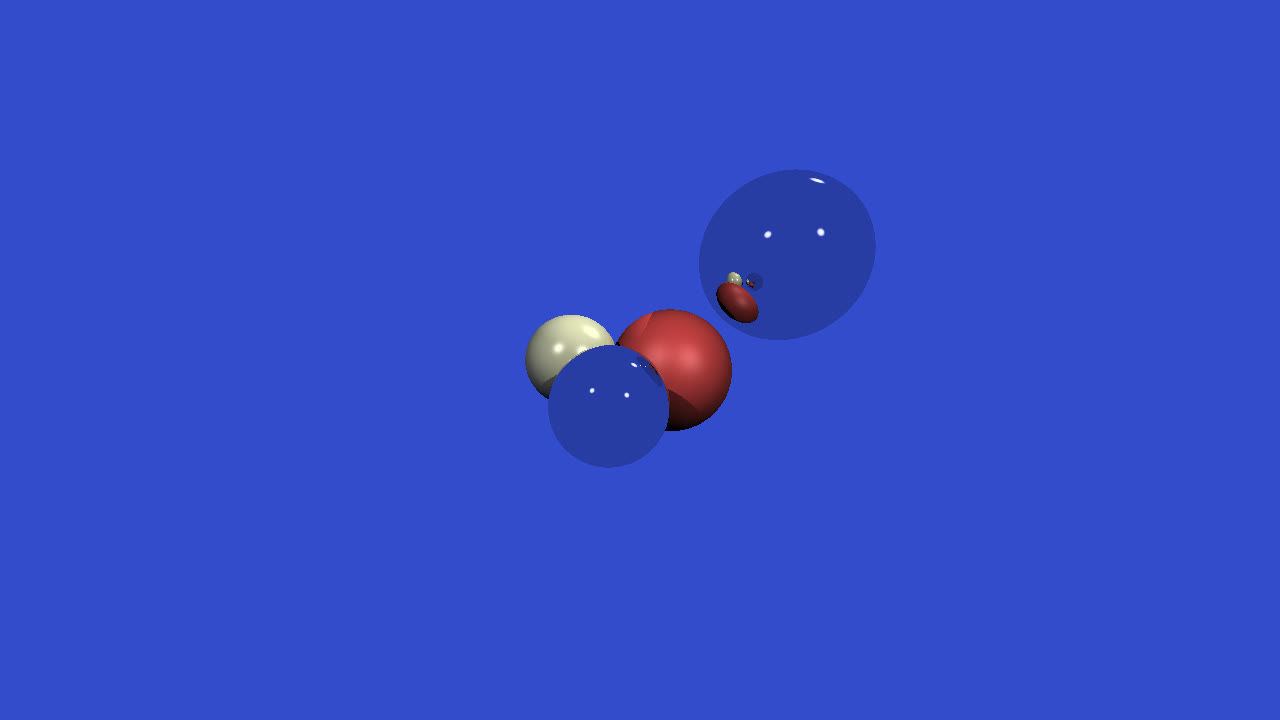
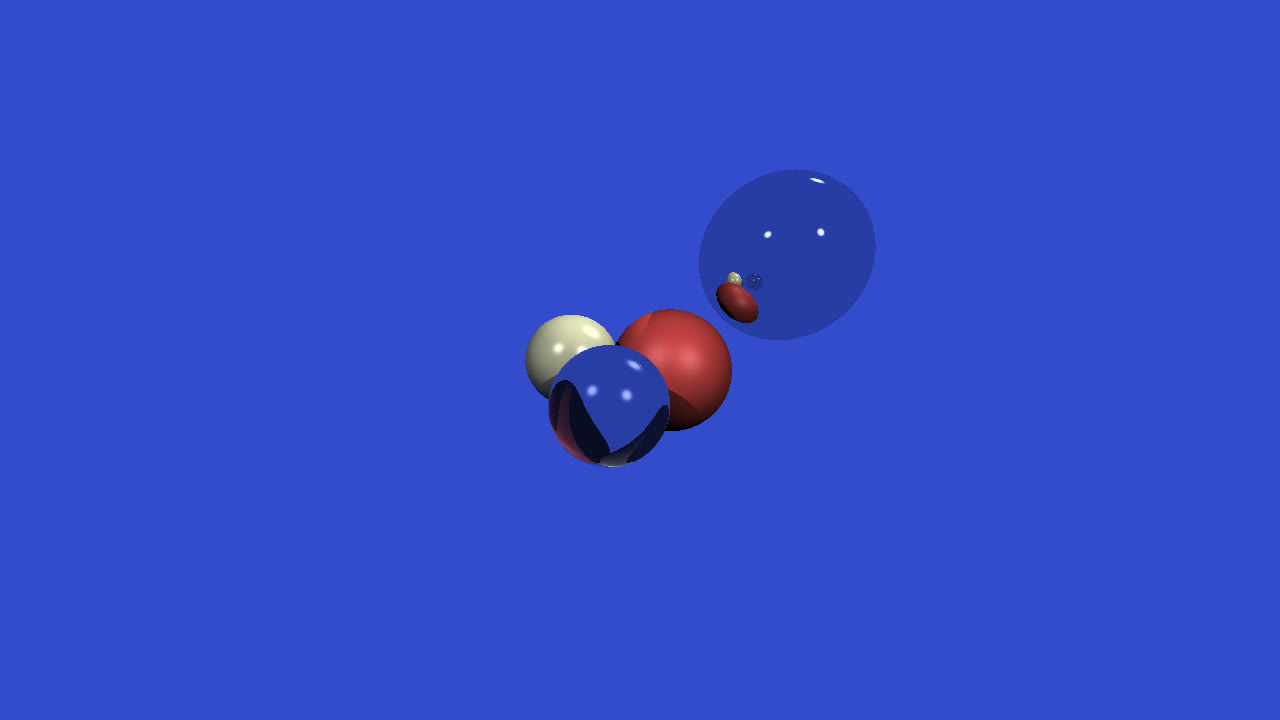
增加了vec4类，实现了折射功能

Changed region(s): [[0.4062, 0.4889, 0.5312, 0.6722]]

diff --git a/RayTracer/src/Vector.h b/RayTracer/src/Vector.h
@@ -1,5 +1,34 @@
 #pragma once
 
+struct vec4
+{
+	float x, y, z, w;
+
+	vec4() : x(0.0f), y(0.0f), z(0.0f), w(0.0f) {}
+	vec4(float x) : x(x), y(x), z(x), w(x) {}
+	vec4(float x, float y, float z, float w) : x(x), y(y), z(z), w(w) {}
+
+	float& operator[](int index) { return index == 0 ? x : (index == 1 ? y : (index == 2 ? z : w)); }
+	const float& operator[](int index) const { return index == 0 ? x : (index == 1 ? y : (index == 2 ? z : w)); }
+
+	vec4 operator+(const vec4& other) const { return vec4(x + other.x, y + other.y, z + other.z, w + other.w); }
+	vec4 operator-(const vec4& other) const { return vec4(x - other.x, y - other.y, z - other.z, w - other.w); }
+	vec4 operator-() const { return vec4(-x, -y, -z, -w); }
+	vec4 operator*(const vec4& other) const { return vec4(x * other.x, y * other.y, z * other.z, w * other.w); }
+	vec4 operator*(float k) const { return vec4(k * x, k * y, k * z, k * w); }
+	friend vec4 operator*(float k, const vec4& v);
+
+	float norm() const { return sqrt(x * x + y * y + z * z + w * w); }
+	float norm2() const { return x * x + y * y + z * z + w * w; }
+	vec4 normalized() const
+	{
+		float length = norm();
+		return vec4(x / length, y / length, z / length, w / length);
+	}
+};
+
+vec4 operator*(float k, const vec4& v) { return vec4(k * v.x, k * v.y, k * v.z, k * v.w); }
+
 struct vec3
 {
 	float x, y, z;
